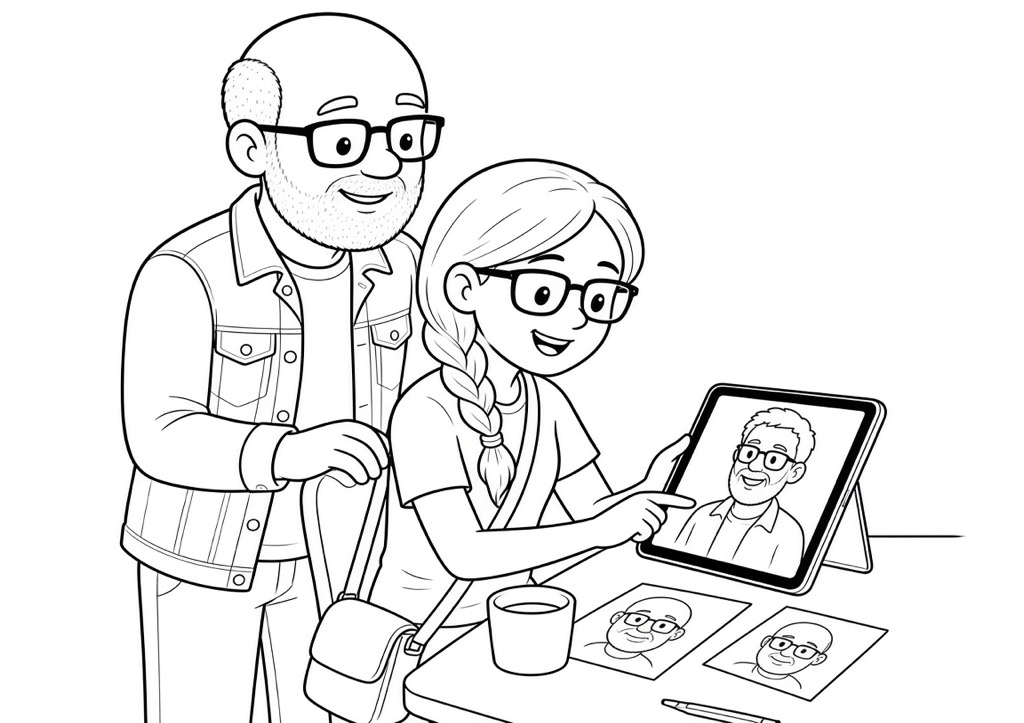
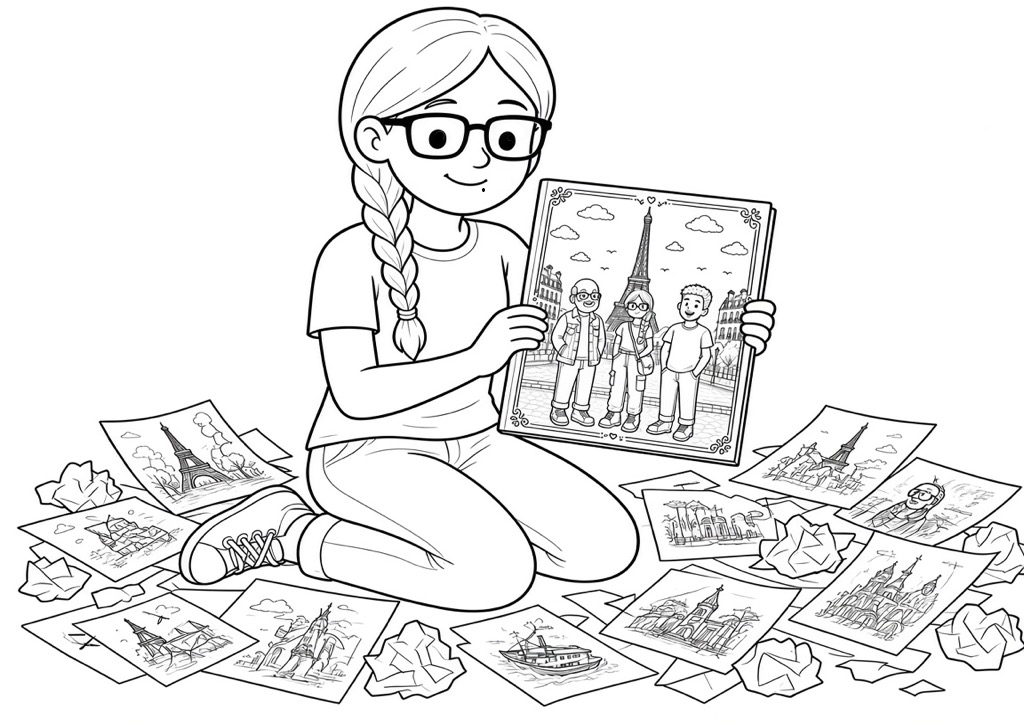
Finish the last page with the chosen illustration and sign-off.

Changed region(s): [[0.0, 0.0, 1.0, 1.0], [0.25, 0.0304, 0.2812, 0.0609]]

diff --git a/src/pages.js b/src/pages.js
@@ -22,7 +22,7 @@ export const pages = [
     alt: "Ilustração em traço: Procopio beija a narradora na têmpora, sentados juntos, o braço dele no ombro dela",
     text: `Em Paris, entre histórias, fachadas e caminhadas, você seguia contando tudo e eu ia alguns passos atrás, tentando guardar cada momento em uma foto. Este livro foi o jeito que encontrei de reunir um pouco do que vivemos — inclusive os momentos que não cabem em uma página.
 
-**Feliz Aniversário**, Procopinho! Você é um pai incrível, e eu sou muito feliz por ter vivido tudo isso com você. — Com carinho, Julia :)`,
+**Feliz Aniversário**, Procopinho! Você é um pai incrível, e eu sou muito feliz por ter vivido tudo isso com você.`,
   },
   {
     chapterTitle: "Amsterdã → Paris",
@@ -155,16 +155,16 @@ Mesmo assim deu para curtir. Sentamos no meio da multidão e observamos a cidade
     alt: "Ilustração em traço: Procopio sozinho descendo a rua de paralelepípedos de Montmartre, de costas, com a mochila e uma garrafinha d'água",
     text: `Na descida de *Montmartre*, Procopio não parava: — "Essas ruas íngremes eram atalhos de artistas e boêmios" — explicou, sem olhar para trás.
 
-Enquanto isso, eu atrasava o passo, buscando o ângulo certo. Clique! Uma das minhas fotos favoritas: Procopio à frente, a rua inclinada e Paris descendo com ele.`,
+Enquanto isso, eu atrasava o passo, buscando o ângulo certo. Clique! Uma das minhas fotos favoritas: Procopio à frente, a rua inclinada e Paris descendo com ele.
+
+E era assim que eu queria lembrar dessa viagem: em movimento, entre histórias e cliques, tentando guardar um pouco de tudo.`,
   },
   {
-    chapterTitle: "Até a próxima",
+    chapterTitle: "Até o Próximo Clique",
     image: "/assets/12-fechamento.png",
-    alt: "Ilustração em traço: a narradora finaliza o livro no tablet, com rascunhos do Procopio sobre a mesa; ele observa sorrindo atrás dela",
-    text: `E era assim que eu queria lembrar dessa viagem: em movimento, entre histórias e cliques, tentando guardar um pouco de tudo.
+    alt: "Ilustração em traço: a narradora sentada entre vários rascunhos, segurando o livro com a capa de Paris",
+    text: `Depois de quase um ano planejando esta pequena lembrança — e de inúmeras tentativas de ilustração em que você apareceu com menos cabelo do que eu gostaria — consegui finalizar a versão digital a tempo do seu aniversário.
 
-Depois de quase um ano planejando esta pequena lembrança — e de inúmeras tentativas de ilustração em que você apareceu com menos cabelo do que eu gostaria — consegui finalizar a versão digital a tempo do seu aniversário.
-
-**Feliz aniversário**, Procopinho. Eu te amo muito. Que venham muitos outros momentos — e muitos outros cliques!`,
+**Feliz aniversário**, Procopinho. Eu te amo muito. Que venham muitos outros momentos — e muitos outros cliques! — Com carinho, Julia :)`,
   },
 ];
